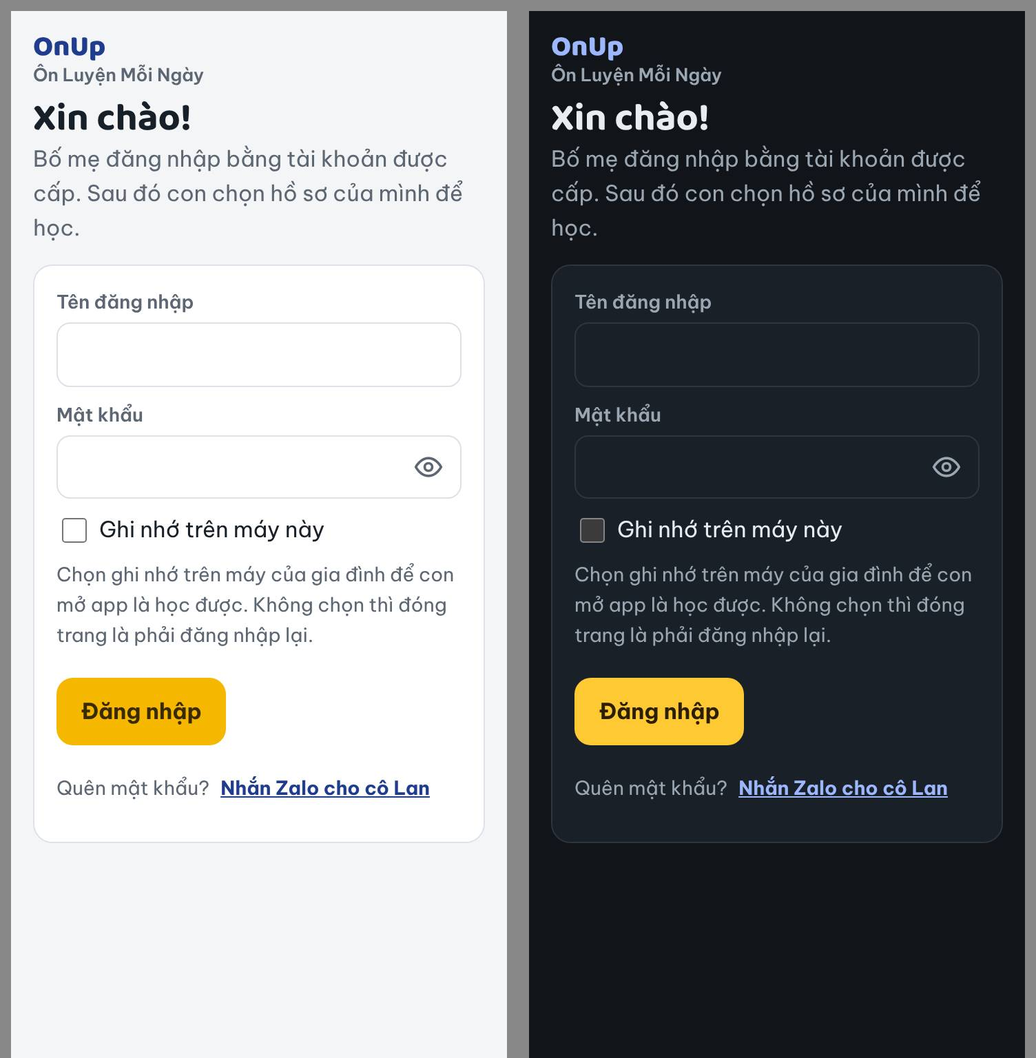
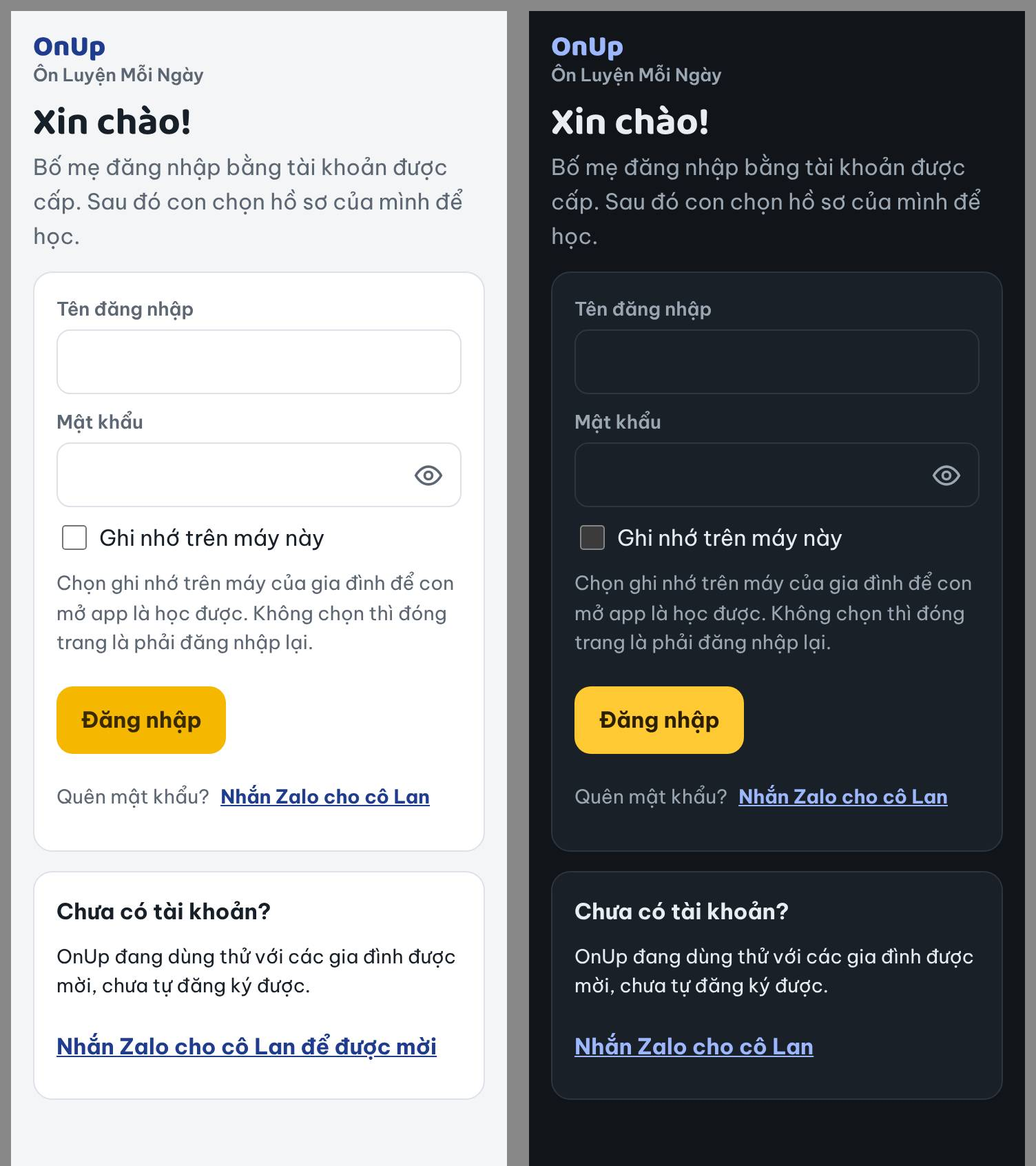
Phiên S1: màn đăng nhập cho người mới (thẻ "Chưa có tài khoản?", nhắc dữ liệu cũ)
- js/app.js (renderCloudLogin): thẻ "Chưa có tài khoản?" dưới form với link liên hệ
  từ signupText, signupUrl (để trống thì dùng contactText, contactUrl; contactLink dùng
  chung với dòng "Quên mật khẩu?"); thẻ nhắc trên form khi máy còn dữ liệu bản lưu trên
  máy có học sinh (Store.localData()) mà chưa chuyển (Store.migratedAt() trống).
- js/config.js: hai khóa tùy chọn signupText, signupUrl.
- tests/supabase/cloud-e2e.js: kiểm tra hai thẻ (lượt sáng điền signup*, lượt tối để
  trống), ảnh 360px sáng/tối c1-dang-nhap-du-lieu-cu; bước chờ service worker tải lại
  trang một lần khi chưa có controller (swControl).
- Tài liệu: CLAUDE.md, HUONG-DAN-SUPABASE, THIET-KE-TAI-KHOAN, TINH-NANG, kế hoạch
  (UI1 đã xong, PR #40); ảnh docs/hinh-dam-may/dang-nhap*.jpg.

Claude-Session: https://claude.ai/code/session_01VqGBv74cHPRr7ZJnJsGMqX

diff --git a/tests/supabase/cloud-e2e.js b/tests/supabase/cloud-e2e.js
@@ -1,9 +1,10 @@
 /* Chạy giao diện bản đám mây trong Chromium với máy chủ Supabase giả (tests/supabase/fake-backend.js) và Edge Function
    admin thật (chủ app tạo tài khoản). Trình duyệt gọi máy chủ giả qua page.exposeFunction, không cần mạng.
    Chạy: python3 -m http.server 8000 &  rồi  node tests/supabase/cloud-e2e.js   (in "CLOUD E2E OK")
-   Luồng: đăng nhập tên đăng nhập + mật khẩu (ghi nhớ) → bắt đổi mật khẩu tạm → khu phụ huynh → thêm hồ sơ con (PIN 4 số
-   tùy chọn) → “Ai đang học?” → con nhập PIN, làm đề, kết quả lên máy chủ → tab mới: nhập lại mật khẩu vào khu phụ huynh →
-   báo cáo tuần, đổi mật khẩu, chuyển dữ liệu máy này, đăng xuất → máy không ghi nhớ → tài khoản bị khóa.
+   Luồng: đăng nhập tên đăng nhập + mật khẩu (ghi nhớ; thẻ “Chưa có tài khoản?”, thẻ nhắc dữ liệu cũ của bản lưu trên máy)
+   → bắt đổi mật khẩu tạm → khu phụ huynh → thêm hồ sơ con (PIN 4 số tùy chọn) → “Ai đang học?” → con nhập PIN, làm đề,
+   kết quả lên máy chủ → tab mới: nhập lại mật khẩu vào khu phụ huynh → báo cáo tuần, đổi mật khẩu, chuyển dữ liệu máy này,
+   đăng xuất → máy không ghi nhớ → tài khoản bị khóa.
    Mỗi màn hình kiểm tra ở 360px như tests/e2e.js (không cuộn ngang, nút cao ≥ 44px, chữ ≥ 13px); ảnh sáng và tối lưu ở
    tests/screenshots/cloud/ (thêm bản ghép sáng/tối cạnh nhau <tên>.jpg để xem nhanh). Lượt tối chạy với CAPTCHA bật. Cuối cùng kiểm tra service worker (sw.js) không làm hỏng bản
    đám mây và không đệm request ra ngoài app, rồi trang admin của chủ app (admin.html): tài khoản gia đình thấy “Không có
@@ -23,9 +24,10 @@ const BASE = process.env.BASE_URL || "http://localhost:8000";
 const OUT = path.join(__dirname, "..", "screenshots", "cloud");
 fs.mkdirSync(OUT, { recursive: true });
 const FAKE_CLIENT = fs.readFileSync(path.join(__dirname, "fake-client.js"), "utf8");
-const CONTACT = "https://zalo.me/0912345678";
-const config = (siteKey) => `window.ONTAP_CONFIG = { supabaseUrl: "https://fake.supabase.co", supabaseAnonKey: "anon-key", turnstileSiteKey: ${JSON.stringify(siteKey || "")},
-  contactText: "Nhắn Zalo cho cô Lan", contactUrl: ${JSON.stringify(CONTACT)} };`;
+const CONTACT = "https://zalo.me/0912345678", SIGNUP = "https://zalo.me/0912345678?moi", SIGNUP_TXT = "Nhắn Zalo cho cô Lan để được mời";
+/* signup: điền signupText, signupUrl (thẻ “Chưa có tài khoản?”); không thì để trống, thẻ phải dùng contactText, contactUrl. */
+const config = (siteKey, signup) => `window.ONTAP_CONFIG = { supabaseUrl: "https://fake.supabase.co", supabaseAnonKey: "anon-key", turnstileSiteKey: ${JSON.stringify(siteKey || "")},
+  contactText: "Nhắn Zalo cho cô Lan", contactUrl: ${JSON.stringify(CONTACT)}, signupText: ${JSON.stringify(signup ? SIGNUP_TXT : "")}, signupUrl: ${JSON.stringify(signup ? SIGNUP : "")} };`;
 /* Thay cho script Cloudflare Turnstile (không có mạng): trả mã hợp lệ sau một chút, ghi lại ô đã dùng. */
 const TURNSTILE_STUB = `window.turnstile = { n: 0, boxes: [], render(host, o) { this.boxes.push(host.id || "?"); const t = "ok-" + Date.now() + "-" + (++this.n); setTimeout(() => o.callback(t), 20); return this.n; }, remove() {} };`;
 
@@ -71,6 +73,7 @@ async function run(browser, scheme) {
   const acc = (await admin({ action: "create_account", username: "nha.bin", password: TEMP, display_name: "Nhà Bin" })).account;
 
   const withCaptcha = scheme === "dark"; // lượt tối chạy với CAPTCHA bật ở cả app và máy chủ
+  const withSignup = scheme === "light"; // lượt sáng điền signupText, signupUrl; lượt tối để trống (thẻ dùng contactText, contactUrl)
   be.captchaRequired = withCaptcha;
   const errs = [], problems = [], swOut = [];
   async function device() {
@@ -78,7 +81,7 @@ async function run(browser, scheme) {
     await ctx.exposeFunction("__fakeSupabase", (msg) => be.handle(msg));
     await ctx.addInitScript(FAKE_CLIENT);
     if (withCaptcha) await ctx.addInitScript(TURNSTILE_STUB);
-    await ctx.route("**/js/config.js", (r) => r.fulfill({ contentType: "text/javascript", body: config(withCaptcha ? "0x4AAAAAAAtest" : "") }));
+    await ctx.route("**/js/config.js", (r) => r.fulfill({ contentType: "text/javascript", body: config(withCaptcha ? "0x4AAAAAAAtest" : "", withSignup) }));
     await ctx.route(/challenges\.cloudflare\.com/, (r) => r.abort());
     await ctx.route(/cdn\.jsdelivr\.net|fonts\.g/, (r) => r.abort()); // không cần mạng
     await ctx.route(/fake\.supabase\.co/, (r) => r.fulfill({ contentType: "application/json", headers: { "access-control-allow-origin": "*" }, body: "[]" }));
@@ -100,6 +103,16 @@ async function run(browser, scheme) {
   const tile = (page, name) => page.click(`.tile:has(.nm:text-is("${name}"))`);
   const pad = async (page, digits) => { for (const k of digits) await page.click(`.pad button[data-k="${k}"]`); await wait(page, 300); };
   const until = async (page, fn) => { for (let i = 0; i < 40 && !fn(); i++) await wait(page, 100); return fn(); };
+  /* Chờ service worker điều khiển trang (sel: ô có trên trang sau khi tải lại). Trang vừa đăng kí service worker không
+     được điều khiển ngay (clients.claim chạy khi kích hoạt xong, có khi sau khi trang đã tải), thỉnh thoảng chờ 30 giây
+     vẫn chưa có controller: chưa có thì tải lại trang một lần rồi chờ. */
+  async function swControl(page, sel) {
+    await page.evaluate(() => navigator.serviceWorker.ready);
+    if (!(await page.evaluate(() => !!navigator.serviceWorker.controller))) { await page.reload(); await page.waitForSelector(sel); }
+    await page.waitForFunction(() => !!navigator.serviceWorker.controller);
+  }
+  /* Thẻ liên hệ trên trang đăng nhập: đường và chữ của link trong #sel. */
+  const linkOf = (page, sel) => page.$eval(sel + " a", (a) => a.getAttribute("href") + " · " + a.textContent).catch(() => "");
   const c = {};
   /* Nút xem mật khẩu, mã PIN (U1), như revealTry trong tests/e2e.js: ô (đã có chữ) có nút ngay sau nó; bấm thì type="text",
      aria-pressed="true", bấm lại thì ẩn; giá trị, focus, vị trí con trỏ, autocomplete giữ nguyên. Chỗ sai ghi vào rv. */
@@ -123,7 +136,11 @@ async function run(browser, scheme) {
   await p.goto(BASE + "/");
   await p.waitForSelector("#loginForm");
   await shot(p, "c1-dang-nhap");
-  c.contact = await p.$eval("#contact a", (a) => a.getAttribute("href") + " · " + a.textContent).catch(() => "");
+  c.contact = await linkOf(p, "#contact");
+  // S1: thẻ “Chưa có tài khoản?” dưới form; máy không có dữ liệu bản lưu trên máy thì không có thẻ nhắc dữ liệu cũ
+  c.signup = { text: await text(p, "#signup"), link: await linkOf(p, "#signup"),
+    below: await p.evaluate(() => !!(document.querySelector("#loginForm").compareDocumentPosition(document.querySelector("#signup")) & Node.DOCUMENT_POSITION_FOLLOWING)) };
+  c.oldData = { none: !(await p.$("#oldData")) };
   await p.fill("#lUser", "nha.bin"); await p.fill("#lPass", "sai-mat-khau");
   await revealTry(p, "#lPass", "mật khẩu");
   await eye(p, "#lPass"); await shot(p, "c1-dang-nhap-hien-mat-khau");
@@ -263,12 +280,23 @@ async function run(browser, scheme) {
   await p2.goto(BASE + "/#/account"); await p2.click("#signOut"); await p2.waitForSelector("#loginForm");
   await p2.reload(); await p2.waitForSelector("#loginForm");
   c.signedOut = await p2.evaluate(() => !localStorage.getItem("ontap_sb_auth") && !sessionStorage.getItem("ontap_sb_auth"));
+  c.oldData.migrated = !(await p2.$("#oldData")); // máy còn dữ liệu cũ nhưng đã chuyển: không nhắc
   await home.close();
 
   /* ---- máy khác, không ghi nhớ: tab mới phải đăng nhập lại ---- */
   const other = await device();
   const q = await other.newPage();
   await q.goto(BASE + "/"); await q.waitForSelector("#loginForm");
+  // S1: máy còn dữ liệu bản lưu trên máy (có học sinh) chưa chuyển: thẻ nhắc trên form; chỉ có quản trị thì không nhắc
+  const setLocal = (d) => q.evaluate((x) => { if (x) localStorage.setItem("ontap_db_v1", JSON.stringify(x)); else localStorage.removeItem("ontap_db_v1"); }, d);
+  await setLocal(localData()); await q.reload(); await q.waitForSelector("#loginForm");
+  c.oldData.text = await text(q, "#oldData");
+  c.oldData.above = await q.evaluate(() => { const o = document.querySelector("#oldData"), f = document.querySelector("#loginForm"); return !!o && !!(o.compareDocumentPosition(f) & Node.DOCUMENT_POSITION_FOLLOWING); });
+  await shot(q, "c1-dang-nhap-du-lieu-cu");
+  await setLocal(Object.assign(localData(), { users: localData().users.filter((u) => u.role !== "student") })); await q.reload(); await q.waitForSelector("#loginForm");
+  c.oldData.noKid = !(await q.$("#oldData"));
+  await setLocal(null); await q.reload(); await q.waitForSelector("#loginForm");
+  c.oldData.removed = !(await q.$("#oldData"));
   await q.fill("#lUser", "nha.bin"); await q.fill("#lPass", PW2); await q.click("#lGo");
   await q.waitForSelector("text=Ai đang học?");
   const q2 = await other.newPage();
@@ -284,8 +312,7 @@ async function run(browser, scheme) {
   c.lockedLogin = await text(q, "#loginErr");
 
   /* ---- service worker: đã cài và điều khiển trang; gọi Supabase, Cloudflare, CDN rồi tải lại trang ---- */
-  await q.evaluate(() => navigator.serviceWorker.ready);
-  await q.waitForFunction(() => !!navigator.serviceWorker.controller);
+  await swControl(q, "#loginForm");
   await q.evaluate(() => Promise.all(["https://fake.supabase.co/rest/v1/families?select=*", "https://challenges.cloudflare.com/turnstile/v0/api.js",
     "https://cdn.jsdelivr.net/npm/@supabase/supabase-js@2.116.0/dist/umd/supabase.js"].map((u) => fetch(u).then((r) => r.text(), () => ""))));
   await q.reload(); await q.waitForSelector("#loginForm");
@@ -307,8 +334,8 @@ async function run(browser, scheme) {
   const adm = await device();
   await adm.grantPermissions(["clipboard-read", "clipboard-write"], { origin: BASE });
   const a = await adm.newPage();
-  await a.goto(BASE + "/"); // trang học cài service worker; trang admin không đi qua nó
-  await a.evaluate(() => navigator.serviceWorker.ready); await a.waitForFunction(() => !!navigator.serviceWorker.controller);
+  await a.goto(BASE + "/"); await a.waitForSelector("#loginForm"); // trang học cài service worker; trang admin không đi qua nó
+  await swControl(a, "#loginForm");
   await a.goto(BASE + "/admin.html"); await a.waitForSelector("#adLogin");
   await shot(a, "c16-admin-dang-nhap");
   await a.fill("#adUser", "nha.na"); await a.fill("#adPass", "tam-na-2026"); await a.click("#adGo"); await a.waitForSelector("#noPerm");
@@ -397,6 +424,11 @@ async function run(browser, scheme) {
   console.log(scheme, c, captchaBoxes, ad, "reveal (U1):", rv);
   const checks = {
     "đăng nhập: dòng “Quên mật khẩu?” lấy chữ và đường liên hệ từ js/config.js": c.contact === CONTACT + " · Nhắn Zalo cho cô Lan",
+    "S1: thẻ “Chưa có tài khoản?” dưới form, link từ signupText, signupUrl (để trống thì contactText, contactUrl)": /^Chưa có tài khoản\? OnUp đang dùng thử với các gia đình được mời/.test(c.signup.text)
+      && c.signup.link === (withSignup ? SIGNUP + " · " + SIGNUP_TXT : CONTACT + " · Nhắn Zalo cho cô Lan") && c.signup.below,
+    "S1: thẻ nhắc dữ liệu cũ trên form khi máy còn dữ liệu bản lưu trên máy có học sinh chưa chuyển; không có, chỉ có quản trị, hoặc đã chuyển thì không": c.oldData.none && c.oldData.above
+      && /^Máy này còn dữ liệu ôn tập cũ \(1 học sinh, 1 kết quả\)\. Đăng nhập tài khoản gia đình, rồi vào Khu phụ huynh → Dữ liệu → Chuyển dữ liệu máy này lên đám mây\.$/.test(c.oldData.text)
+      && c.oldData.noKid && c.oldData.removed && c.oldData.migrated,
     "sai mật khẩu: báo rõ": /Tên đăng nhập hoặc mật khẩu chưa đúng/.test(c.wrong),
     "mật khẩu tạm: bắt đặt mật khẩu mới (hai ô phải khớp), máy chủ bỏ cờ": /chưa khớp/.test(c.mismatch) && c.changed,
     "ghi nhớ trên máy này: phiên giữ trong localStorage": c.remembered,

diff --git a/js/app.js b/js/app.js
@@ -485,18 +485,29 @@
   }
 
   /* ================= ĐĂNG NHẬP ĐÁM MÂY (khi js/config.js có Supabase) ================= */
-  /* Dòng liên hệ khi quên mật khẩu hoặc tài khoản bị khóa: chữ và đường liên hệ lấy từ js/config.js (contactText, contactUrl).
-     Chỉ nhận đường https:, tel:, sms:, mailto:. */
+  /* Đường liên hệ lấy từ js/config.js, chỉ nhận https:, tel:, sms:, mailto: (không có hoặc sai thì chỉ hiện chữ).
+     kind "contact": contactText, contactUrl (quên mật khẩu, tài khoản bị khóa); "signup": signupText, signupUrl (xin tài khoản,
+     thẻ “Chưa có tài khoản?”), khóa nào để trống thì dùng khóa contact tương ứng. */
+  function contactLink(kind, cls) {
+    const c = window.ONTAP_CONFIG || {}, s = (k) => String(c[k] || "").trim();
+    const txt = (kind === "signup" && s("signupText")) || s("contactText") || "Liên hệ người cấp tài khoản.";
+    const url = (kind === "signup" && s("signupUrl")) || s("contactUrl");
+    return /^(https:|tel:|sms:|mailto:)/i.test(url)
+      ? `<a class="linkbtn${cls ? " " + cls : ""}" href="${esc(url)}"${/^https:/i.test(url) ? ` target="_blank" rel="noopener"` : ""}>${esc(txt)}</a>`
+      : `<span class="muted${cls ? " " + cls : ""}">${esc(txt)}</span>`;
+  }
+  /* Dòng liên hệ khi quên mật khẩu hoặc tài khoản bị khóa. */
   function contactLine(lead) {
-    const c = window.ONTAP_CONFIG || {}, txt = String(c.contactText || "").trim() || "Liên hệ người cấp tài khoản.", url = String(c.contactUrl || "").trim();
-    const ok = /^(https:|tel:|sms:|mailto:)/i.test(url);
-    return `<div class="row contact" id="contact" style="gap:4px 8px"><span class="small muted">${esc(lead)}</span>${ok
-      ? `<a class="linkbtn small" href="${esc(url)}"${/^https:/i.test(url) ? ` target="_blank" rel="noopener"` : ""}>${esc(txt)}</a>` : `<span class="small muted">${esc(txt)}</span>`}</div>`;
+    return `<div class="row contact" id="contact" style="gap:4px 8px"><span class="small muted">${esc(lead)}</span>${contactLink("contact", "small")}</div>`;
   }
   function renderCloudLogin() {
     drawWho(null);
+    // Máy còn dữ liệu của bản lưu trên máy (có học sinh) mà chưa chuyển lên đám mây: nhắc ngay trên form (Phiên S1).
+    const loc = Store.localData(), kids = loc ? loc.users.filter((x) => x.role === "student").length : 0;
+    const oldData = kids && !Store.migratedAt() ? `<div class="notice" id="oldData">Máy này còn dữ liệu ôn tập cũ (${kids} học sinh, ${(loc.results || []).length} kết quả). Đăng nhập tài khoản gia đình, rồi vào Khu phụ huynh → Dữ liệu → Chuyển dữ liệu máy này lên đám mây.</div>` : "";
     view.innerHTML = `<div class="stack">
       <div><h1>Xin chào!</h1><p class="muted">Bố mẹ đăng nhập bằng tài khoản được cấp. Sau đó con chọn hồ sơ của mình để học.</p></div>
+      ${oldData}
       <form class="panel" id="loginForm" autocomplete="on">
         <label class="field"><span>Tên đăng nhập</span><input id="lUser" name="username" autocomplete="username" autocapitalize="none" autocorrect="off" spellcheck="false" maxlength="20" required></label>
         <label class="field"><span>Mật khẩu</span><input id="lPass" name="password" type="password" autocomplete="current-password" maxlength="72" required></label>
@@ -506,7 +517,10 @@
         <div id="loginErr" aria-live="assertive"></div>
         <div class="row"><button class="btn main" type="submit" id="lGo">Đăng nhập</button></div>
         ${contactLine("Quên mật khẩu?")}
-      </form></div>`;
+      </form>
+      <section class="panel" id="signup"><b>Chưa có tài khoản?</b>
+        <span class="small">OnUp đang dùng thử với các gia đình được mời, chưa tự đăng ký được.</span>
+        ${contactLink("signup")}</section></div>`;
     wireReveal(view);
     $("#loginForm").onsubmit = async (ev) => {
       ev.preventDefault();

diff --git a/js/config.js b/js/config.js
@@ -16,5 +16,9 @@ window.ONTAP_CONFIG = {
   // Dòng "Quên mật khẩu?" dưới ô đăng nhập (và khi tài khoản bị khóa): chữ hiện ra và đường liên hệ người cấp tài khoản.
   // contactUrl nhận https://… (ví dụ https://zalo.me/0912345678), tel:…, sms:…, mailto:…; để trống thì chỉ hiện chữ.
   contactText: "Liên hệ người cấp tài khoản.",
-  contactUrl: ""
+  contactUrl: "",
+  // Không bắt buộc: thẻ “Chưa có tài khoản?” dưới ô đăng nhập (trang chỉ dành cho gia đình được mời, không tự đăng ký):
+  // chữ và đường liên hệ để xin tài khoản, ví dụ "Nhắn Zalo cho cô Lan để được mời". Để trống thì dùng contactText, contactUrl ở trên.
+  signupText: "",
+  signupUrl: ""
 };

diff --git a/CLAUDE.md b/CLAUDE.md
@@ -22,7 +22,7 @@ css/app.css             toàn bộ giao diện app chính (token màu ở :root,
 fonts/                  font tự lưu (Baloo 2, Be Vietnam Pro, woff2 từ @fontsource), fonts.css dùng chung cho app và bài ôn; giấy phép OFL.txt
 sw.js                   service worker: đệm sẵn file của app để mở lại được khi mất mạng (xem "Chạy khi mất mạng")
 manifest.webmanifest    tên, màu, biểu tượng khi thêm vào Màn hình chính; icons/ (icon.svg là bản gốc, PNG vẽ lại từ đó)
-js/config.js            cấu hình Supabase (URL, khóa công khai, dòng liên hệ “Quên mật khẩu?”). Trên `main` ĐÃ ĐIỀN (PR #27, 17/10/2026): trang trên GitHub Pages chạy bản đám mây. Để trống hai giá trị đầu = dùng LocalStore, không tải gì từ mạng (tests/e2e.js tự chạy với bản đã xóa)
+js/config.js            cấu hình Supabase (URL, khóa công khai, dòng liên hệ “Quên mật khẩu?” `contactText`, `contactUrl`; thẻ “Chưa có tài khoản?” `signupText`, `signupUrl`, để trống thì dùng hai khóa contact). Trên `main` ĐÃ ĐIỀN (PR #27, 17/10/2026): trang trên GitHub Pages chạy bản đám mây. Để trống hai giá trị đầu = dùng LocalStore, không tải gì từ mạng (tests/e2e.js tự chạy với bản đã xóa)
 js/store.js             kho dữ liệu (LocalStore, localStorage khóa "ontap_db_v1"). Mọi màn hình chỉ gọi Store.*
 js/store-supabase.js    SupabaseStore: cùng các hàm với LocalStore, chỉ bật khi js/config.js có URL + anon key
 js/app.js               định tuyến hash + tất cả màn hình (đăng nhập, trang chủ theo vai trò, báo cáo tuần, lịch, quản trị)
@@ -123,7 +123,7 @@ Phía trình duyệt (`js/store-supabase.js`, phần đám mây của `js/app.js
 - Giao diện giống hệt LocalStore: hàm đọc đồng bộ (đọc từ bộ nhớ đệm tải lúc đăng nhập), `createUser`/`updateUser`/`checkPin` async. Hàm ghi cập nhật bộ nhớ đệm ngay rồi đẩy lên máy chủ theo hàng đợi; lỗi thì gọi `Store.onError` (app hiện toast) và tải lại dữ liệu thật. **Thêm hàm mới vào Store thì thêm ở cả hai kho**; `tests/supabase/store-test.mjs` so danh sách hàm.
 - Hàm chỉ có ở bản đám mây: `init, refresh, flush, authState ("signed-out"|"change-password"|"locked"|"no-family"|"ready"), signIn(tên, mật khẩu, ghi nhớ), signOut, checkPassword, changePassword(mới, hiện tại?), parentUnlocked, rememberLogin, username, plan ({id, name, maxChildren, until}), localData, migrate, migratedAt`.
 - Người dùng trong bộ nhớ đệm: một người dùng ảo `Phụ huynh` (mã `phu-huynh`, vai trò `admin` của app, nên dùng chung các màn hình quản trị, trên giao diện gọi là “Khu phụ huynh”; `Store.ROLES.admin` = “Phụ huynh”) và mỗi hồ sơ con là một học sinh (`parentIds: ["phu-huynh"]`, thêm `hasPin`, `locked`). Bản đám mây chỉ thêm, sửa, xóa hồ sơ con; tài khoản của bố mẹ do chủ app quản lý.
-- Luồng (js/app.js `route()`): chưa đăng nhập → `renderCloudLogin` (tên đăng nhập + mật khẩu + “Ghi nhớ trên máy này” + dòng “Quên mật khẩu?” từ `contactText`, `contactUrl` của js/config.js); mật khẩu tạm → `renderNewPassword` (bắt đổi); bị khóa hoặc không có gia đình (ví dụ tài khoản chủ app) → `renderCloudBlocked`; đã đăng nhập mà tab chưa chọn ai → `renderLogin` thành màn hình “Ai đang học?”. Hồ sơ con có PIN thì nhập PIN, không có thì bấm là vào; Phụ huynh phải nhập lại mật khẩu (`checkPassword`, sai cũng tính vào `PinLock`), vừa nhập mật khẩu trong 5 phút thì không hỏi lại (`parentUnlocked`; `setSession` của Phụ huynh cũng kiểm tra). Tài khoản chưa có hồ sơ con và vừa đăng nhập thì vào thẳng khu phụ huynh. “Đổi người học” (`setSession(null)`) về “Ai đang học?” mà không đăng xuất; chỉ Phụ huynh đăng xuất được (trang Tài khoản, kèm đổi mật khẩu).
+- Luồng (js/app.js `route()`): chưa đăng nhập → `renderCloudLogin` (tên đăng nhập + mật khẩu + “Ghi nhớ trên máy này” + dòng “Quên mật khẩu?” từ `contactText`, `contactUrl` của js/config.js; dưới form là thẻ “Chưa có tài khoản?” với link từ `signupText`, `signupUrl`, khóa nào trống thì lấy khóa contact tương ứng, cả hai qua `contactLink`; trên form có thẻ nhắc `#oldData` khi máy còn dữ liệu bản lưu trên máy có học sinh (`Store.localData()`) mà chưa chuyển (`Store.migratedAt()` trống)); mật khẩu tạm → `renderNewPassword` (bắt đổi); bị khóa hoặc không có gia đình (ví dụ tài khoản chủ app) → `renderCloudBlocked`; đã đăng nhập mà tab chưa chọn ai → `renderLogin` thành màn hình “Ai đang học?”. Hồ sơ con có PIN thì nhập PIN, không có thì bấm là vào; Phụ huynh phải nhập lại mật khẩu (`checkPassword`, sai cũng tính vào `PinLock`), vừa nhập mật khẩu trong 5 phút thì không hỏi lại (`parentUnlocked`; `setSession` của Phụ huynh cũng kiểm tra). Tài khoản chưa có hồ sơ con và vừa đăng nhập thì vào thẳng khu phụ huynh. “Đổi người học” (`setSession(null)`) về “Ai đang học?” mà không đăng xuất; chỉ Phụ huynh đăng xuất được (trang Tài khoản, kèm đổi mật khẩu).
 - Hồ sơ đang dùng giữ trong sessionStorage (`ontap_cloud_who`), hồ sơ con chọn gần nhất ở localStorage (`ontap_cloud_last`). Phiên Supabase giữ trong sessionStorage, chọn “Ghi nhớ” thì localStorage (`ontap_sb_auth`). Phiên bị máy chủ từ chối (hết hạn, chủ app đặt lại mật khẩu) thì tự đăng xuất trên máy.
 - PIN hồ sơ con: 4 số, không bắt buộc, băm trên máy như `hashPin` của js/store.js, lưu `pin_hash = "<muối>$<mã băm>"`; muối bắt đầu bằng `<độ dài>.` để bàn phím tự vào khi gõ đủ. PIN chuyển từ máy cũ (`import_local`, 4–6 số, chưa biết độ dài) nhập đúng một lần thì được băm lại kèm độ dài.
 - Tài khoản mới (Edge Function chỉ tạo dòng `families`) chưa có kì thi nào: lần mở đầu app chép lịch mặc định lên máy chủ. Đề có sẵn (data/banks/) không lưu lên máy chủ; `seed_banks_seen` của family làm việc như `seedBanksSeen`.
@@ -182,4 +182,4 @@ GitHub Pages: Settings → Pages → Deploy from a branch → `main` / root. Fil
 - **Không ghi giá bán, chi phí hay so sánh đối thủ vào repo** (repo công khai). Ví dụ SQL về gói dùng số giữ chỗ.
 - **Supabase giữ gói Free** đến khi bắt đầu thu tiền. Trước đó chủ app xuất CSV các bảng hằng tuần và mở app ít nhất mỗi tuần một lần (`docs/HUONG-DAN-SUPABASE.md`, mục “Gói và đề trả phí”). Code không cần làm gì cho việc này.
 - **Báo câu sai bằng nút trong app** (Phiên R1). GitHub Issues chỉ còn cho chủ app; không hướng dẫn phụ huynh, học sinh dùng GitHub trên giao diện hay trong tài liệu dành cho họ.
-- **Trang công khai https://dunglnh.github.io/OnUp/ chỉ dành cho gia đình được mời:** không tự đăng ký; chủ app tạo tài khoản ở `admin.html`. Màn đăng nhập có dòng “Chưa có tài khoản?” kèm cách liên hệ (Phiên S1, đọc từ `js/config.js`). Không làm đăng nhập email, mã mời, mã gia đình (`docs/THIET-KE-TAI-KHOAN.md` mục 1, 2).
+- **Trang công khai https://dunglnh.github.io/OnUp/ chỉ dành cho gia đình được mời:** không tự đăng ký; chủ app tạo tài khoản ở `admin.html`. Màn đăng nhập có thẻ “Chưa có tài khoản?” kèm cách liên hệ (đọc `signupText`, `signupUrl` từ `js/config.js`). Không làm đăng nhập email, mã mời, mã gia đình (`docs/THIET-KE-TAI-KHOAN.md` mục 1, 2).

diff --git a/docs/TINH-NANG.md b/docs/TINH-NANG.md
@@ -147,7 +147,7 @@ App mở lại được khi mất mạng: lần mở đầu (cần mạng) trìn
 
 Mã PIN chỉ để phân biệt người dùng, không phải bảo mật thật.
 
-**Bản đám mây** (trang https://dunglnh.github.io/OnUp/ chạy bản này từ 17/10/2026; tài khoản theo [THIET-KE-TAI-KHOAN.md](THIET-KE-TAI-KHOAN.md)): dữ liệu nằm trên Supabase và dùng chung trên nhiều máy. Một tài khoản là một gia đình, do chủ app cấp ở trang admin (`admin.html`: tạo tài khoản với mật khẩu tạm gợi ý sẵn, đặt lại mật khẩu, khóa, mở khóa, xóa, ghi chú, nhật ký, số liệu nhanh; không xem bài làm của các con): phụ huynh đăng nhập bằng tên đăng nhập + mật khẩu (lần đầu đặt mật khẩu mới; “Ghi nhớ trên máy này” cho máy con dùng hằng ngày; dòng “Quên mật khẩu?” chỉ cách liên hệ người cấp). Con là hồ sơ trong tài khoản: màn hình “Ai đang học?” hiện các hồ sơ con và ô Phụ huynh; hồ sơ có mã PIN 4 số (không bắt buộc) thì nhập PIN. Vào khu phụ huynh phải nhập lại mật khẩu; ở đó thêm/sửa/xóa hồ sơ con (tối đa 5), xem tiến độ và báo cáo tuần, sửa lịch thi, nhập ngân hàng đề, chuyển dữ liệu từ bản lưu trên máy lên (học sinh giữ PIN cũ), đổi mật khẩu, đăng xuất. Kết quả làm xong khi mất mạng được giữ trên máy và gửi lên khi có mạng. Ảnh: [hinh-dam-may/](hinh-dam-may/).
+**Bản đám mây** (trang https://dunglnh.github.io/OnUp/ chạy bản này từ 17/10/2026; tài khoản theo [THIET-KE-TAI-KHOAN.md](THIET-KE-TAI-KHOAN.md)): dữ liệu nằm trên Supabase và dùng chung trên nhiều máy. Một tài khoản là một gia đình, do chủ app cấp ở trang admin (`admin.html`: tạo tài khoản với mật khẩu tạm gợi ý sẵn, đặt lại mật khẩu, khóa, mở khóa, xóa, ghi chú, nhật ký, số liệu nhanh; không xem bài làm của các con): phụ huynh đăng nhập bằng tên đăng nhập + mật khẩu (lần đầu đặt mật khẩu mới; “Ghi nhớ trên máy này” cho máy con dùng hằng ngày; dòng “Quên mật khẩu?” và thẻ “Chưa có tài khoản?” chỉ cách liên hệ người cấp; máy còn dữ liệu của bản lưu trên máy chưa chuyển thì màn đăng nhập nhắc đường chuyển lên). Con là hồ sơ trong tài khoản: màn hình “Ai đang học?” hiện các hồ sơ con và ô Phụ huynh; hồ sơ có mã PIN 4 số (không bắt buộc) thì nhập PIN. Vào khu phụ huynh phải nhập lại mật khẩu; ở đó thêm/sửa/xóa hồ sơ con (tối đa 5), xem tiến độ và báo cáo tuần, sửa lịch thi, nhập ngân hàng đề, chuyển dữ liệu từ bản lưu trên máy lên (học sinh giữ PIN cũ), đổi mật khẩu, đăng xuất. Kết quả làm xong khi mất mạng được giữ trên máy và gửi lên khi có mạng. Ảnh: [hinh-dam-may/](hinh-dam-may/).
 
 Trang thật **chỉ dành cho gia đình được mời** (quyết định 18/10/2026): không tự đăng ký, không đăng nhập bằng email; chưa có tài khoản thì liên hệ theo dòng ở màn đăng nhập. App đang **miễn phí**: mỗi tài khoản tối đa 5 hồ sơ con, dùng được mọi đề. Bản trả phí chỉ tính đến khi đã đủ đề lớp 4–12 (hướng đi: [THIET-KE-TAI-KHOAN.md](THIET-KE-TAI-KHOAN.md) mục 9). Muốn cài một bản đám mây riêng: [HUONG-DAN-SUPABASE.md](HUONG-DAN-SUPABASE.md).
 
@@ -157,7 +157,7 @@ Trang thật **chỉ dành cho gia đình được mời** (quyết định 18/1
 - Giáo viên giao bài cho cả lớp, bảng xếp hạng.
 - Đề giữa kì II lớp 6 và đề cuối năm lớp 4, lớp 6 (đã có chỗ trong lịch, chưa có câu hỏi; lớp 4 đã có 4 đề giữa kì II). Số đề đang có: `node tests/kiem-tra-de.js`.
 - Thông báo nhắc ôn qua điện thoại.
-- Nút “Báo câu này sai” trong app, dòng “Chưa có tài khoản?” ở màn đăng nhập, các cải tiến giao diện 2.x: đã có trong lộ trình, chưa có trong app.
+- Nút “Báo câu này sai” trong app, các cải tiến giao diện 2.x: đã có trong lộ trình, chưa có trong app.
 
 ## 7. Lộ trình tiếp theo
 

diff --git a/docs/THIET-KE-TAI-KHOAN.md b/docs/THIET-KE-TAI-KHOAN.md
@@ -3,7 +3,7 @@
 Phiên bản 3 · 18/10/2026. Trạng thái và thứ tự các phiên chỉ ghi ở [KE-HOACH-PHAT-TRIEN-ONUP.md](KE-HOACH-PHAT-TRIEN-ONUP.md); các đoạn “Đã làm ở Phiên A/B/C” dưới đây mô tả những gì đã có trong code. Lời giao việc của ba phiên đó: mục 8.
 
 **Phạm vi bây giờ:** khung tài khoản đã dựng xong và đang chạy trên trang thật. Chủ app (bạn) tạo và quản lý tài khoản ở một **trang admin riêng**; phụ huynh đăng nhập bằng **tên đăng nhập + mật khẩu**; con là hồ sơ trong tài khoản của bố mẹ. Theo quyết định của chủ app ngày 18/10/2026:
-- **Trang công khai chỉ dành cho gia đình được mời.** Không tự đăng ký; màn đăng nhập có dòng “Chưa có tài khoản?” kèm cách liên hệ (Phiên S1). Không làm đăng nhập email, mã mời, mã gia đình (mục 1, 2).
+- **Trang công khai chỉ dành cho gia đình được mời.** Không tự đăng ký; màn đăng nhập có thẻ “Chưa có tài khoản?” kèm cách liên hệ (`signupText`, `signupUrl` trong `js/config.js`). Không làm đăng nhập email, mã mời, mã gia đình (mục 1, 2).
 - **Chưa làm bản trả phí.** Bán khi đủ đề lớp 4–12 (khoảng cuối năm học 2028–2029). Đến lúc đó gói Miễn phí giữ như hiện nay: 5 hồ sơ con, mọi đề; bảng `plans` không đổi. Hạn mức gói Miễn phí và gói Gia đình lúc bán sẽ chốt sau. Hướng đi ở mục 9; khung đã chừa sẵn chỗ để lúc đó không phải làm lại.
 - **Supabase giữ gói Free** đến khi bắt đầu thu tiền (chủ app xuất CSV hằng tuần, mở app mỗi tuần; [HUONG-DAN-SUPABASE.md](HUONG-DAN-SUPABASE.md)).
 - Không ghi giá bán, chi phí hay so sánh đối thủ vào repo.
@@ -127,7 +127,7 @@ Bản lưu trên máy (LocalStore) giữ lại cho kiểm thử và dùng không
 
 **Đã làm ở Phiên B** (`data/grades.js`, `js/store-supabase.js`, `js/app.js`; ảnh 360px sáng/tối: [hinh-dam-may/](hinh-dam-may/)):
 - `data/grades.js` (lớp 1–12, chỉ lớp 4 và 6 `active`) thay mọi chỗ viết cứng `[4, 6]`. `Store.can(feature)` ở cả hai kho: bản lưu trên máy luôn được; bản đám mây chỉ giới hạn `"addChild"` theo `max_children` của gói đang hiệu lực.
-- Đăng nhập tên đăng nhập + mật khẩu, ô “Ghi nhớ trên máy này”, CAPTCHA khi có khóa, dòng “Quên mật khẩu?” lấy `contactText`, `contactUrl` từ `js/config.js`. Mật khẩu tạm thì bắt đặt mật khẩu mới. Tài khoản bị khóa, tài khoản không có gia đình (chủ app) thấy màn hình báo, có dòng liên hệ.
+- Đăng nhập tên đăng nhập + mật khẩu, ô “Ghi nhớ trên máy này”, CAPTCHA khi có khóa, dòng “Quên mật khẩu?” lấy `contactText`, `contactUrl` từ `js/config.js`. Mật khẩu tạm thì bắt đặt mật khẩu mới. Tài khoản bị khóa, tài khoản không có gia đình (chủ app) thấy màn hình báo, có dòng liên hệ. Dưới form đăng nhập có thẻ “Chưa có tài khoản?” (link từ `signupText`, `signupUrl`, để trống thì dùng hai khóa contact); máy còn dữ liệu của bản lưu trên máy có học sinh mà chưa chuyển thì trên form có thẻ nhắc đường chuyển (Khu phụ huynh → Dữ liệu); ảnh `dang-nhap.jpg`, `dang-nhap-du-lieu-cu.jpg`.
 - “Ai đang học?”: các hồ sơ con và ô Phụ huynh. Hồ sơ có PIN 4 số thì nhập PIN (băm và kiểm tra trên máy, khóa tạm sau 5 lần sai), không có thì bấm là vào. Ô Phụ huynh phải nhập lại mật khẩu (vừa nhập trong 5 phút thì không hỏi lại).
 - Khu phụ huynh (dùng chung các màn hình quản trị của bản lưu trên máy): tổng quan các con, hồ sơ con (thêm/sửa/xóa, đặt hoặc bỏ PIN, hạn mức theo gói), lịch thi, ngân hàng đề, dữ liệu (tên gia đình, chuyển dữ liệu máy này lên, tải file sao lưu); trang Tài khoản: đổi mật khẩu, “Đổi người học”, đăng xuất khỏi máy này. Tài khoản mới tự chép lịch thi mặc định ở lần mở đầu.
 - Bỏ giao diện đăng nhập email, mã mời, mã gia đình.

diff --git a/docs/HUONG-DAN-SUPABASE.md b/docs/HUONG-DAN-SUPABASE.md
@@ -101,7 +101,7 @@ select id, 'nha.bin', 'Nhà Bin' from auth.users where email = 'nha.bin@users.on
 ## Bước 7. Điền `js/config.js`
 
 1. Supabase → **Project Settings → API Keys**. Chép **Project URL** (`https://abcdxyz.supabase.co`) và khóa **publishable** (`sb_publishable_...`) hoặc **anon public**.
-2. GitHub → [`js/config.js`](../js/config.js) → **Edit** → điền `supabaseUrl`, `supabaseAnonKey`. Nên sửa luôn dòng “Quên mật khẩu?” dưới ô đăng nhập: `contactText` (ví dụ `"Nhắn Zalo cho cô Lan"`) và `contactUrl` (ví dụ `"https://zalo.me/0912345678"`, hoặc `"tel:0912345678"`; để trống thì chỉ hiện chữ). `main` đang được bảo vệ: chọn **Create a new branch… and start a pull request**, rồi tự **Merge**.
+2. GitHub → [`js/config.js`](../js/config.js) → **Edit** → điền `supabaseUrl`, `supabaseAnonKey`. Nên sửa luôn dòng “Quên mật khẩu?” dưới ô đăng nhập: `contactText` (ví dụ `"Nhắn Zalo cho cô Lan"`) và `contactUrl` (ví dụ `"https://zalo.me/0912345678"`, hoặc `"tel:0912345678"`; để trống thì chỉ hiện chữ). Thẻ “Chưa có tài khoản?” dưới form dùng `signupText`, `signupUrl` (ví dụ `"Nhắn Zalo cho cô Lan để được mời"`); để trống thì dùng luôn hai giá trị trên. `main` đang được bảo vệ: chọn **Create a new branch… and start a pull request**, rồi tự **Merge**.
 
 > ⚠ **Không bao giờ** dán khóa `service_role` / `secret` (`sb_secret_...`) vào file này: khóa đó bỏ qua mọi lớp bảo vệ. Lỡ dán thì xóa ngay và đổi khóa (**Roll**) trong Supabase. Khóa publishable/anon là công khai, để trên GitHub được: dữ liệu được bảo vệ bằng chính sách RLS trong `schema.sql`.
 
